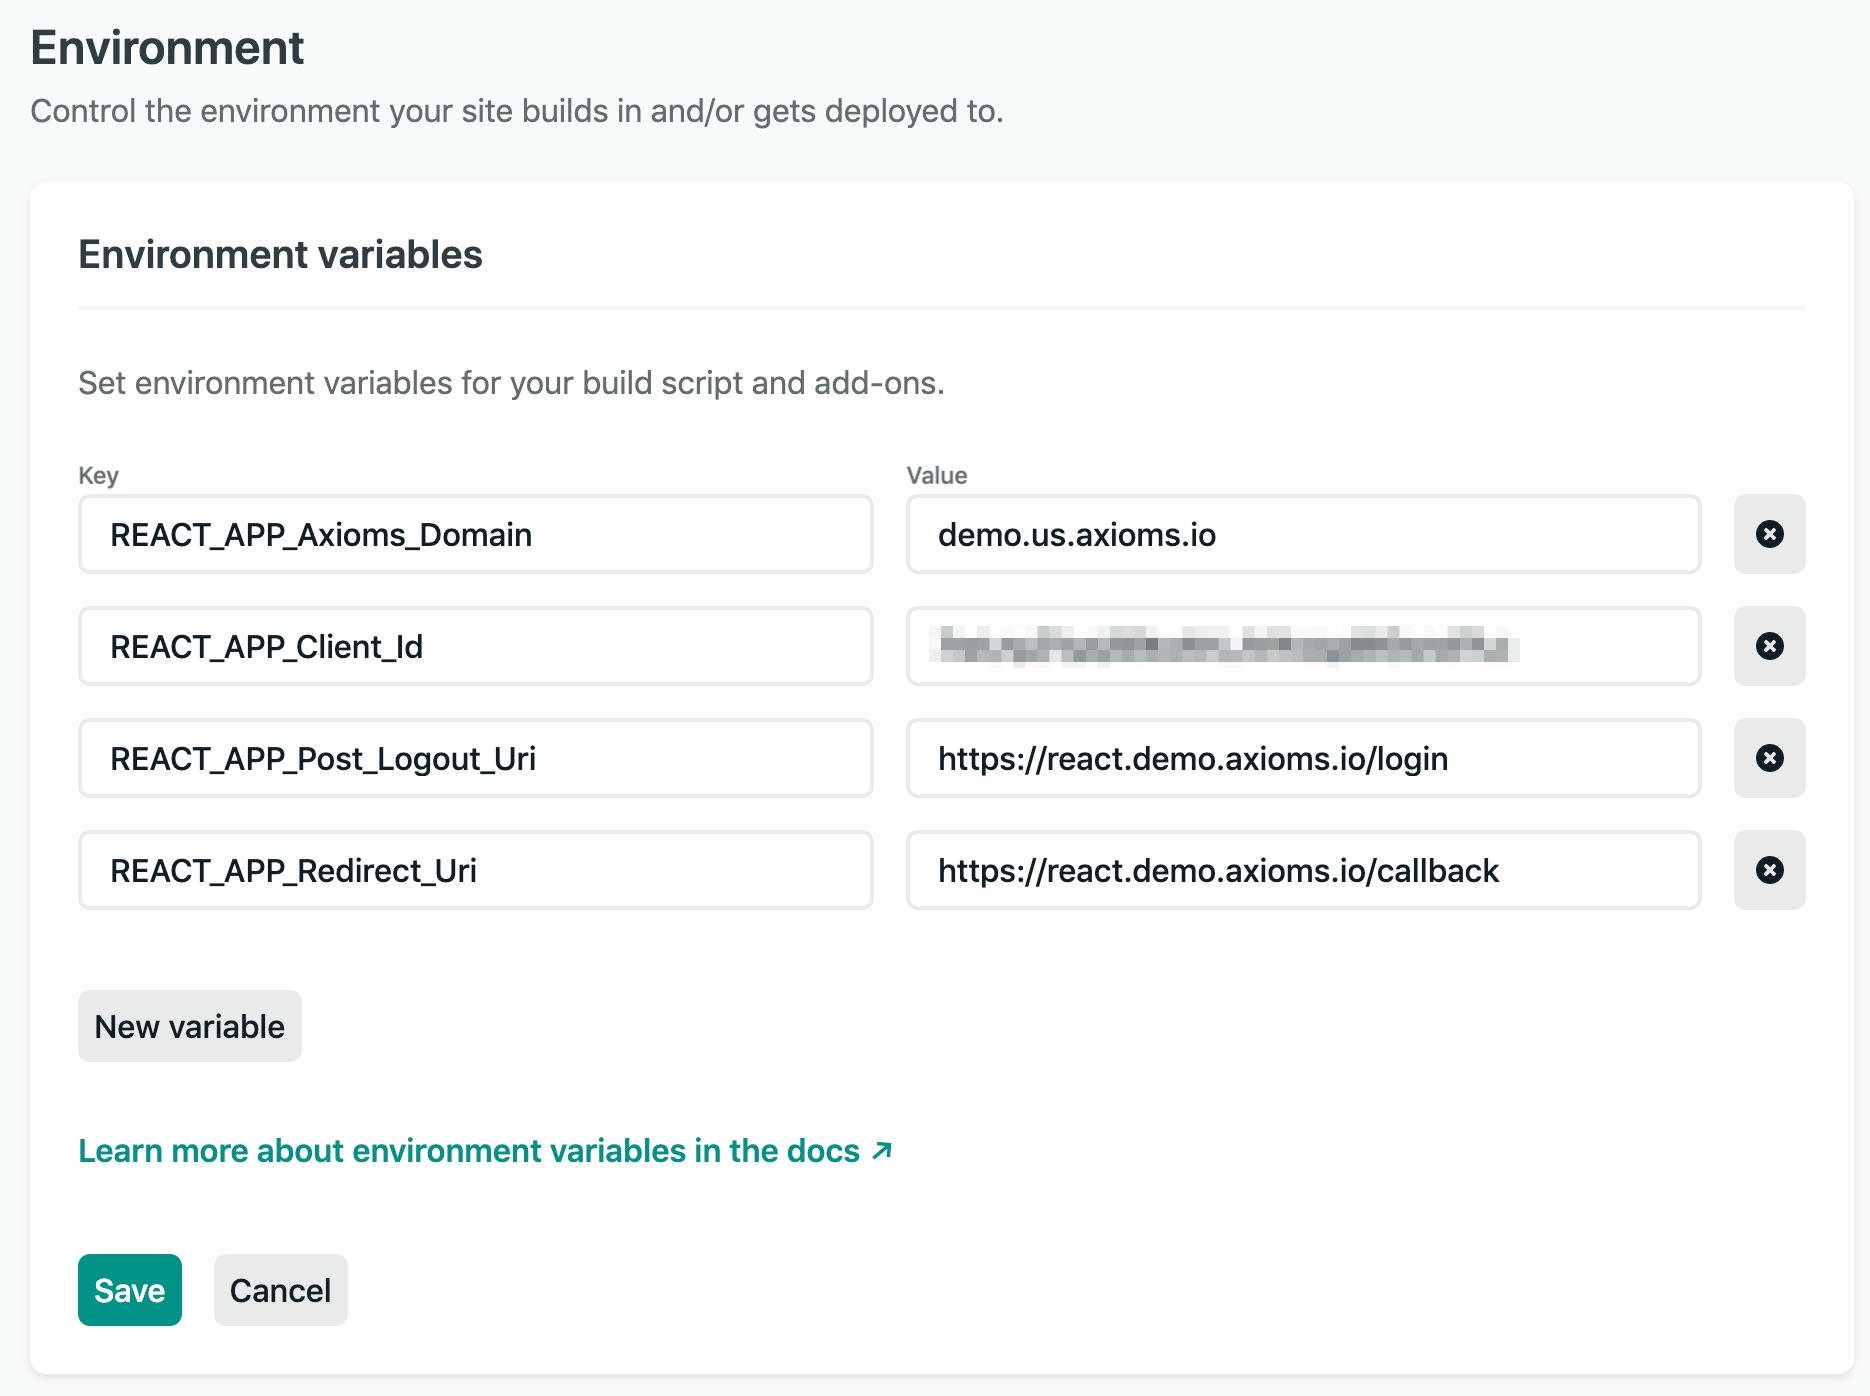
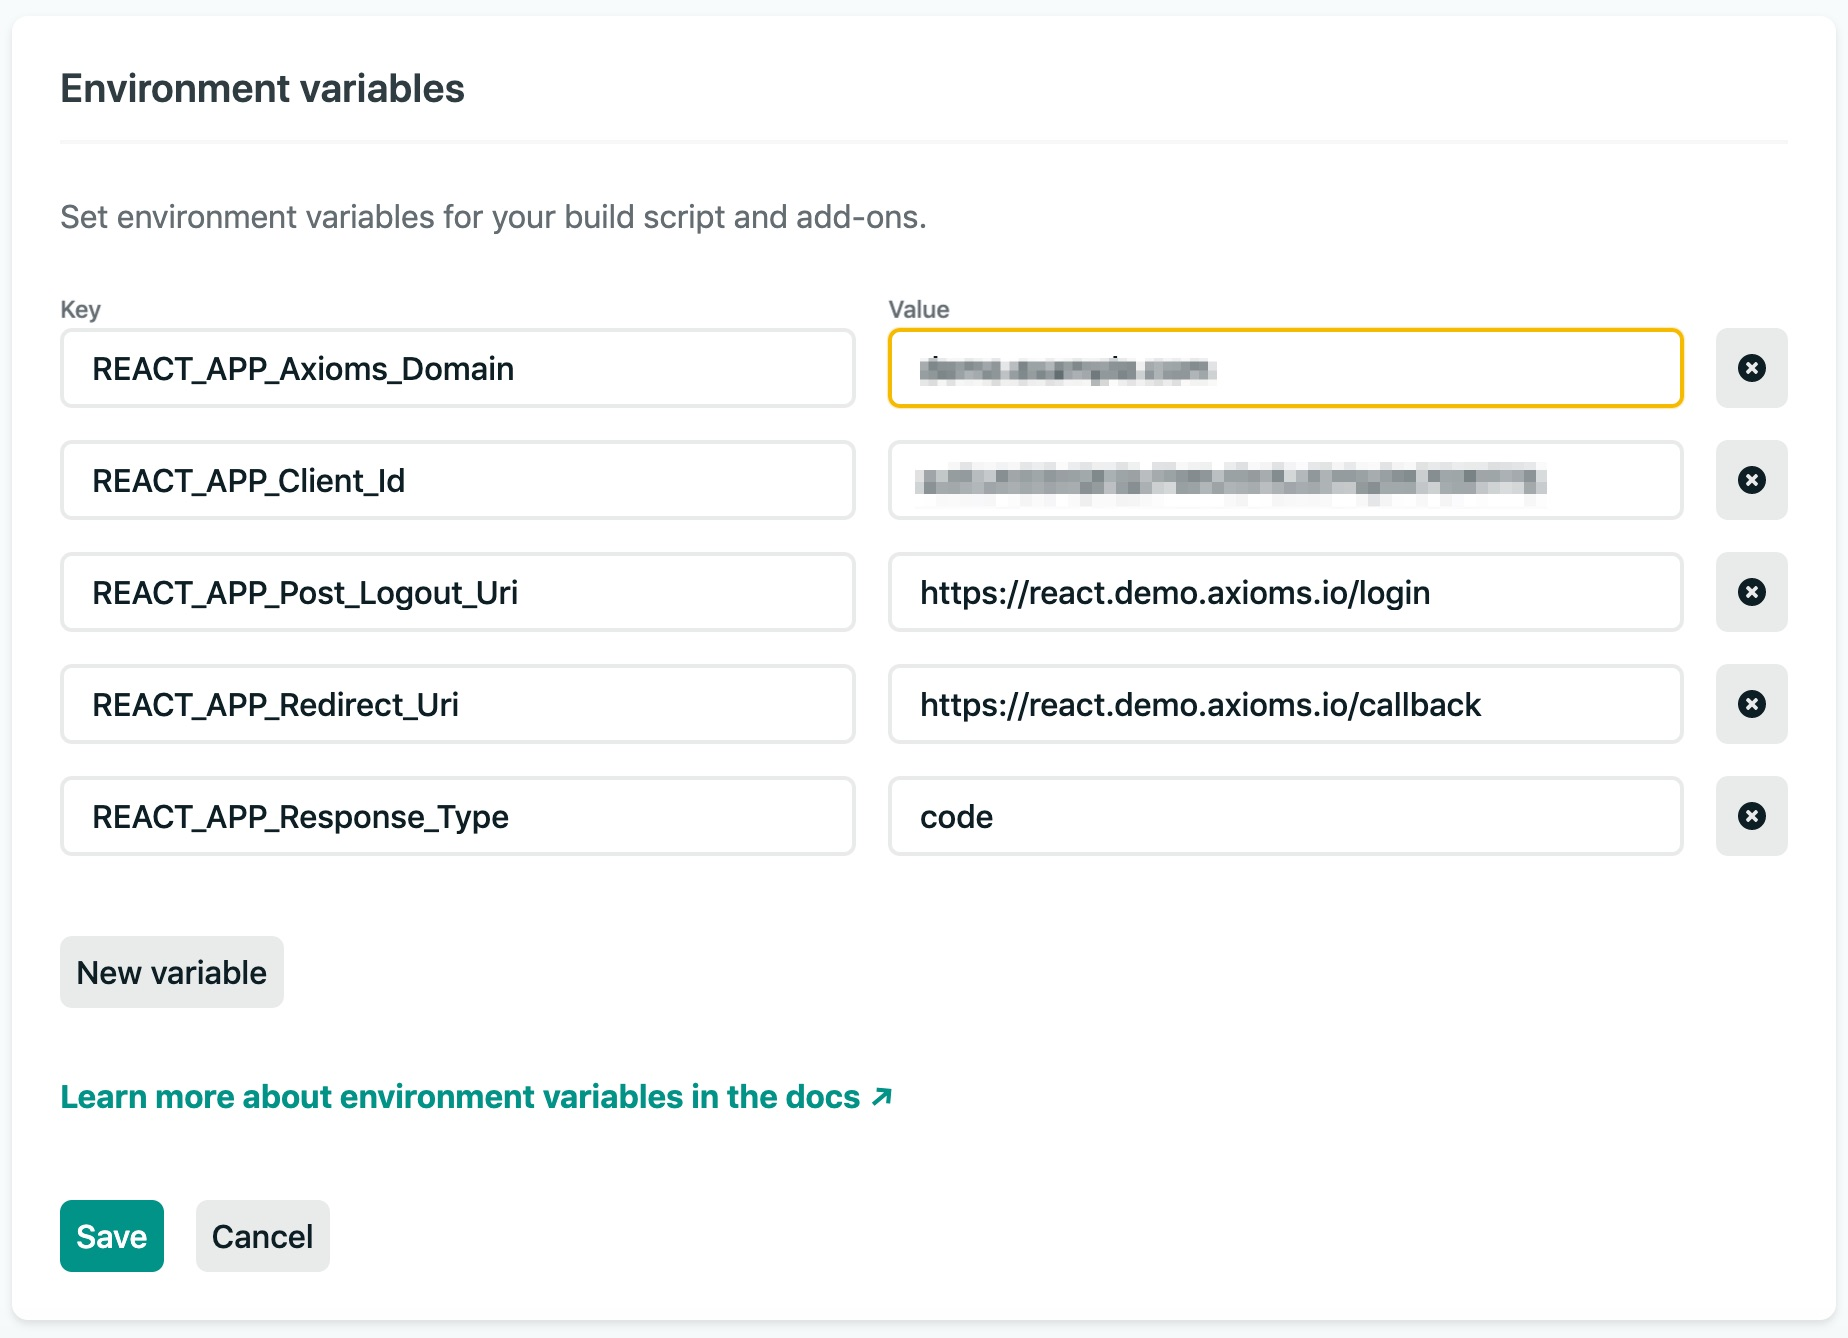
response type as env variable

diff --git a/src/App.js b/src/App.js
@@ -14,7 +14,7 @@ import { Auth } from "@axioms/web-js";
 // Auth
 const $auth = new Auth({
   axioms_domain: process.env.REACT_APP_Axioms_Domain,
-  response_type: "code",
+  response_type: process.env.REACT_APP_Response_Type,
   redirect_uri: process.env.REACT_APP_Redirect_Uri,
   post_logout_uri: process.env.REACT_APP_Post_Logout_Uri,
   client_id: process.env.REACT_APP_Client_Id,

diff --git a/README.md b/README.md
@@ -28,6 +28,7 @@ Either update `.env.production` or create a `.env.local` to add following config
 
 ```
 REACT_APP_Client_Id=<Your_Client_ID>
+REACT_APP_Response_Type=code
 REACT_APP_Axioms_Domain=<Your_Slug>.axioms.io
 REACT_APP_Redirect_Uri=https://<Your-App-Domain>/callback
 REACT_APP_Post_Logout_Uri=https://<Your-App-Domain>/login
